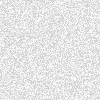
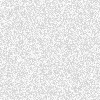
noise change

Changed region(s): [[0.0, 0.0, 1.0, 1.0], [0.03, 0.99, 0.06, 1.0]]

diff --git a/src/components/Banner/Banner.css b/src/components/Banner/Banner.css
@@ -24,6 +24,16 @@
     background-size: 1.389vw 1.389vw;
     background-position: 0 0, 0.694vw 0.694vw;
     z-index: 1;
+    animation: dotsMove 12s linear infinite;
+}
+
+@keyframes dotsMove {
+    0% {
+        background-position: 0 0, 0.694vw 0.694vw;
+    }
+    100% {
+        background-position: 2vw 2vw, 2.694vw 2.694vw;
+    }
 }
 
 .banner-text {

diff --git a/src/index.css b/src/index.css
@@ -18,8 +18,8 @@ body::before {
   height: 100vh;
   pointer-events: none;
   z-index: 9999;
-  background: url('../public/images/noise.png');
-  opacity: 1;
+  background: url('../public/images/noise2.png');
+  opacity: 0.8;
   mix-blend-mode: multiply;
   background-repeat: repeat;
 }
